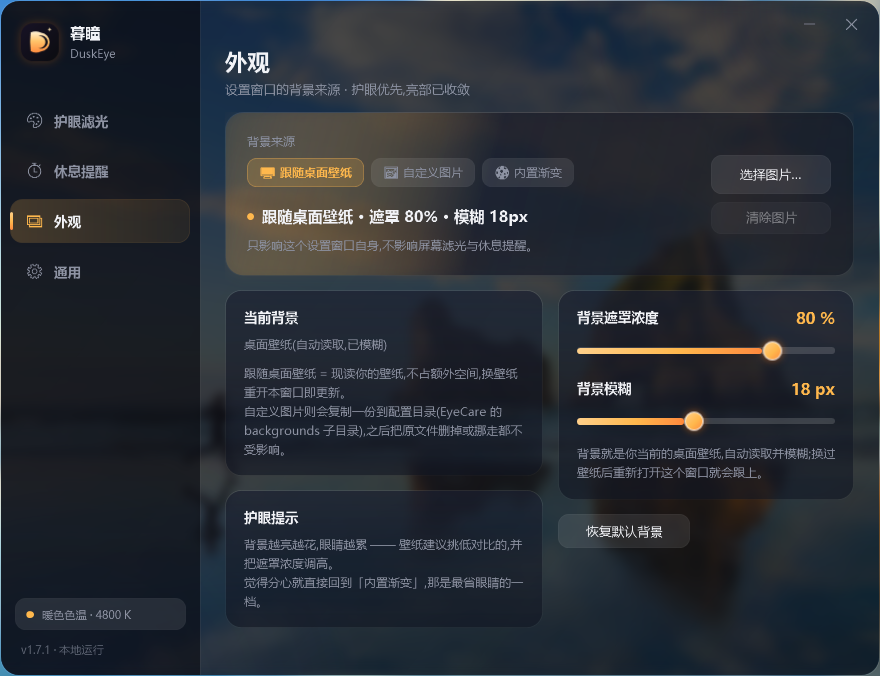
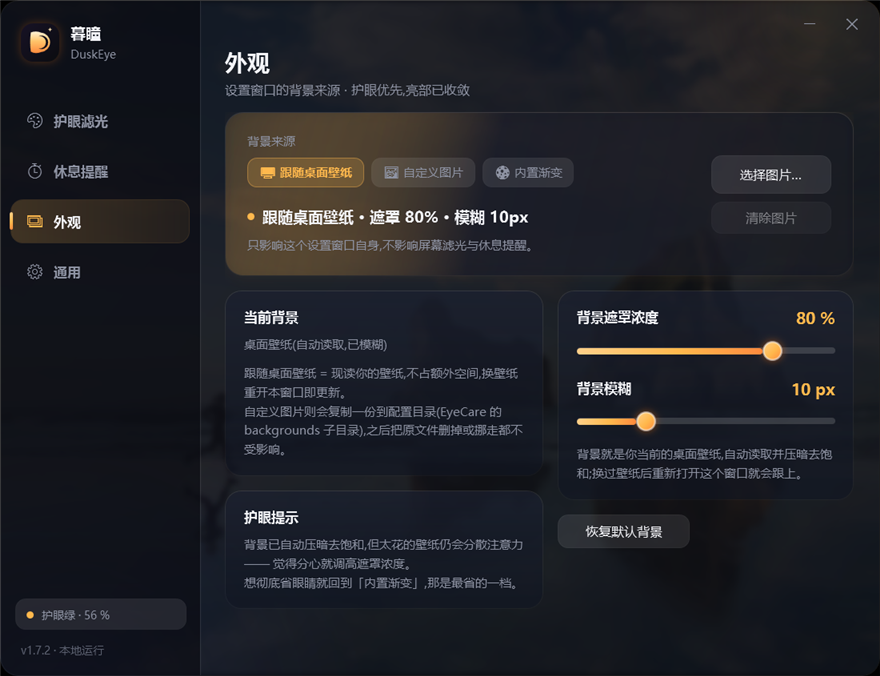
v1.7.2: 背景玻璃配方重做 —— 像素层压暗 + 去饱和,根治背景「又糊又耀眼」
老配方「高斯模糊 + 黑遮罩」的两个死结:
- 模糊把亮部搅开,亮壁纸变成整片乳白光雾,越模糊越亮(糊);
- 遮罩是 lerp(c, 深色, α),只压亮度不压饱和度,彩色照样刺眼(耀眼)。

BackgroundStore.Render 在模糊之后逐像素补两步:
- 向亮度收 ~38% 饱和度,壁纸退成灰调;
- 亮度压缩 out = 10 + in×0.40(纯白封顶 ~112),亮度上限不再依赖用户调遮罩;
  遮罩滑杆拉到 10% 也不会回到亮糊状态。
- 处理前先转非预乘 Bgra32,避免模糊边缘被二次压暗出暗边。

默认模糊 18→10(配 ConfigRevision=2 迁移,老配置统一拉回新配方默认值);
同步外观页文案、恢复默认值、README「暗玻璃配方」说明;重拍四页界面截图。

diff --git a/src/EyeCare/UI/SettingsWindow.xaml b/src/EyeCare/UI/SettingsWindow.xaml
@@ -100,8 +100,8 @@
                             </StackPanel>
                         </Border>
 
-                        <TextBlock Grid.Row="4" Text="v1.7.1 · 本地运行" FontSize="11" Foreground="#FF5C6170"
-                                   Margin="20,0,0,18"/>
+                    <TextBlock Grid.Row="4" Text="v1.7.2 · 本地运行" FontSize="11" Foreground="#FF5C6170"
+                               Margin="20,0,0,18"/>
                     </Grid>
                 </Border>
 
@@ -483,7 +483,7 @@
                                             <StackPanel>
                                                 <TextBlock Text="关于" Style="{StaticResource CardTitle}"/>
                                                 <TextBlock Style="{StaticResource Hint}" Margin="0,10,0,0"
-                                                           Text="暮瞳 DuskEye v1.7.1 · 自用免费 · 完全本地运行,无任何联网、无任何账户。&#x0a;配置与日志保存在 %APPDATA%\EyeCare。代码完全属于你,可自由修改与分发。"/>
+                                                           Text="暮瞳 DuskEye v1.7.2 · 自用免费 · 完全本地运行,无任何联网、无任何账户。&#x0a;配置与日志保存在 %APPDATA%\EyeCare。代码完全属于你,可自由修改与分发。"/>
                                             </StackPanel>
                                         </Border>
                                     </StackPanel>
@@ -554,7 +554,7 @@
                                             <StackPanel>
                                                 <TextBlock Text="护眼提示" Style="{StaticResource CardTitle}"/>
                                                 <TextBlock Style="{StaticResource Hint}" Margin="0,10,0,0"
-                                                           Text="背景越亮越花,眼睛越累 —— 壁纸建议挑低对比的,并把遮罩浓度调高。&#x0a;觉得分心就直接回到「内置渐变」,那是最省眼睛的一档。"/>
+                                                           Text="背景已自动压暗去饱和,但太花的壁纸仍会分散注意力 —— 觉得分心就调高遮罩浓度。&#x0a;想彻底省眼睛就回到「内置渐变」,那是最省的一档。"/>
                                             </StackPanel>
                                         </Border>
                                     </StackPanel>
@@ -573,7 +573,7 @@
 
                                                 <Grid Margin="0,16,0,0">
                                                     <TextBlock Text="背景模糊" Style="{StaticResource CardTitle}"/>
-                                                    <TextBlock x:Name="TxtBlurValue" Text="18 px" HorizontalAlignment="Right"
+                                                    <TextBlock x:Name="TxtBlurValue" Text="10 px" HorizontalAlignment="Right"
                                                                Style="{StaticResource ValueText}"/>
                                                 </Grid>
                                                 <Slider x:Name="SldBlur" Style="{StaticResource ModernSlider}" Margin="0,10,0,0"
@@ -581,7 +581,7 @@
                                                         ValueChanged="Bg_ValueChanged"/>
 
                                                 <TextBlock x:Name="TxtBgHint" Style="{StaticResource Hint}" Margin="0,12,0,0"
-                                                           Text="遮罩越浓,背景越暗越护眼;模糊负责把照片细节抹平,免得抢注意力。"/>
+                                                           Text="背景在像素层已自动压暗、去饱和,再亮的壁纸也只是灰调;遮罩越浓越沉,模糊负责抹平细节。"/>
                                             </StackPanel>
                                         </Border>
 

diff --git a/src/EyeCare/UI/Theme.xaml b/src/EyeCare/UI/Theme.xaml
@@ -56,6 +56,8 @@
          原则:**背景可换,亮部收敛**。
          ① 背景层 = 由 AppSettings.BackgroundMode 决定(内置哑光渐变 / 自定义图片 / 跟随桌面),
             换的只是 SettingsWindow 里 BgLayer 的 Background 画刷;
+            注意画刷本身已在 BackgroundStore 做过「暗玻璃」处理(模糊 + 压暗 + 去饱和),
+            遮罩滑杆再低背景也只是灰调暗图 —— 遮罩层不是唯一的亮度闸门;
          ② 遮罩层 = 下面 ScrimGlass,整层 Opacity 由「背景遮罩浓度」滑杆控制,
             把照片或桌面压暗到不刺眼;
          ③ 面板层 = GlassCardFill / GlassCardEdge 等,哑光深色卡片,只留一丝顶边高光。

diff --git a/src/EyeCare/Core/BackgroundStore.cs b/src/EyeCare/Core/BackgroundStore.cs
@@ -13,9 +13,16 @@ namespace EyeCare.Core;
 /// 设置窗口的背景图。三种背景来源里有两种是「一张图」:
 ///   · image   = 用户选的图片,复制到 %APPDATA%\EyeCare\backgrounds 下持久化;
 ///   · desktop = 当前桌面壁纸,每次应用时现读现用(用户换壁纸后重新打开设置即可跟随)。
-/// 两者的模糊都在<b>像素层</b>做(降采样 → DrawingVisual + BlurEffect → RenderTargetBitmap → ImageBrush),
-/// 不把 BlurEffect 挂在元素上 —— 元素级模糊会把窗口四角的圆角一起糊掉,
-/// 而这里产出的画刷交给 Border.Background,圆角由 Border 自己裁,边缘永远是干净的。
+/// 两者都在<b>像素层</b>做完整处理(降采样 → DrawingVisual + BlurEffect → RenderTargetBitmap
+/// → 压暗去饱和 → ImageBrush),不把 BlurEffect 挂在元素上 —— 元素级模糊会把窗口四角的
+/// 圆角一起糊掉,而这里产出的画刷交给 Border.Background,圆角由 Border 自己裁,边缘永远是干净的。
+/// <para>
+/// 「模糊 + 黑遮罩」的老配方有两个治不好的毛病,是背景"又糊又耀眼"的根源:
+/// ① 高斯模糊把亮部搅开,一张亮壁纸会变成整片乳白光雾 —— 越模糊越亮;
+/// ② 深色遮罩是 lerp(c, 深色, α),只压亮度、<b>饱和度原样保留</b>,彩色壁纸照样花花绿绿地透上来。
+/// 所以在像素层加一道「暗玻璃」处理(见 <see cref="Render"/>):先把饱和度收掉,再把亮度整体
+/// 压进一个很低的区间 —— 之后无论遮罩滑杆拉到多低,背景最多也只是"灰调暗图",不可能再刺眼。
+/// </para>
 /// </summary>
 public static class BackgroundStore
 {
@@ -24,6 +31,14 @@ public static class BackgroundStore
 
     /// <summary>模糊前先把图片降到这个宽度再处理:省内存、省 CPU,压暗后肉眼看不出差别</summary>
     private const int WorkWidth = 1280;
+
+    // ── 暗玻璃配方 ──
+    /// <summary>去饱和比例(0-255):颜色通道向亮度收 96/256 ≈ 38%,壁纸退成灰调、不再抢注意力</summary>
+    private const int DesatMix = 96;
+    /// <summary>亮度压缩 out = Floor + in × Gain:纯白(255)封顶约 112,深夜也不刺眼;
+    /// 低值抬底色,模糊的暗角不至于死黑。遮罩滑杆在这之上再压,所以「浓度」低到 10% 也安全</summary>
+    private const double ToneFloor = 10;
+    private const double ToneGain = 0.40;
 
     /// <summary>超过这个大小的文件不当背景图处理,免得一个手滑把内存吃光</summary>
     private const long MaxBytes = 64L * 1024 * 1024;
@@ -144,7 +159,7 @@ public static class BackgroundStore
     // ── 画刷 ──
 
     /// <summary>
-    /// 生成背景画刷:等比裁切填满(UniformToFill)+ 居中,blur &gt; 0 时先做像素级高斯模糊。
+    /// 生成背景画刷:等比裁切填满(UniformToFill)+ 居中,先像素级模糊、再做「暗玻璃」压暗去饱和。
     /// 读不出来时返回 null,由调用方降级到内置渐变。
     /// <para>
     /// 一律按<b>字节流</b>解码,而不是把路径交给 BitmapImage:桌面壁纸(TranscodedWallpaper)
@@ -168,7 +183,8 @@ public static class BackgroundStore
             var src = Decode(data, downscale ? WorkWidth : 0);
             if (src is null) return null;
 
-            ImageSource final = blur <= 0 ? src : Blur(src, w, h, blur);
+            ImageSource? final = Render(src, w, h, blur);
+            if (final is null) return null;
 
             var brush = new ImageBrush(final)
             {
@@ -244,16 +260,62 @@ public static class BackgroundStore
         catch { return null; }
     }
 
-    private static ImageSource Blur(BitmapSource src, int w, int h, int radius)
+    /// <summary>
+    /// 背景图的完整像素处理:blur &gt; 0 先高斯模糊(消除细节),然后<b>一律</b>做「暗玻璃」——
+    /// 去饱和 + 亮度压缩。blur = 0 也要做:耀眼是亮度问题,跟模不模糊无关。
+    /// <para>
+    /// 为什么压缩必须做在<b>位图像素</b>里、而不是靠窗口上的遮罩层:遮罩是 lerp(c, 深色, α),
+    /// 无论怎么调 α 都治不了两件事 —— 亮部封不了顶(α 低时白壁纸照透),饱和度原样保留
+    /// (彩色照样刺眼)。像素层的 out = Floor + in×Gain 才是真正的亮度上限。
+    /// </para>
+    /// <para>
+    /// 模糊会把四边拉进半透明(Pbgra 预乘),先转成非预乘的 Bgra32 再逐像素处理,
+    /// 否则边缘会被二次压暗出一圈暗边。逐像素只有乘加 + 256 项查表,1280 宽的图约 10ms。
+    /// </para>
+    /// </summary>
+    private static ImageSource? Render(BitmapSource src, int w, int h, int blur)
     {
-        var dv = new DrawingVisual { Effect = new BlurEffect { Radius = radius, KernelType = KernelType.Gaussian } };
-        using (var dc = dv.RenderOpen())
-            dc.DrawImage(src, new Rect(0, 0, w, h));
+        try
+        {
+            var dv = new DrawingVisual();
+            if (blur > 0)
+                dv.Effect = new BlurEffect { Radius = blur, KernelType = KernelType.Gaussian };
+            using (var dc = dv.RenderOpen())
+                dc.DrawImage(src, new Rect(0, 0, w, h));
 
-        var rtb = new RenderTargetBitmap(w, h, 96, 96, PixelFormats.Pbgra32);
-        rtb.Render(dv);
-        rtb.Freeze();
-        return rtb;
+            var rtb = new RenderTargetBitmap(w, h, 96, 96, PixelFormats.Pbgra32);
+            rtb.Render(dv);
+
+            var bgra = new FormatConvertedBitmap(rtb, PixelFormats.Bgra32, null, 0);
+            int stride = w * 4;
+            var pixels = new byte[stride * h];
+            bgra.CopyPixels(pixels, stride, 0);
+
+            // 亮度压缩查表:循环里只剩一次查表,不再做浮点
+            var lut = new byte[256];
+            for (int i = 0; i < 256; i++)
+                lut[i] = (byte)Math.Round(ToneFloor + ToneGain * i);
+
+            for (int p = 0; p < pixels.Length; p += 4)
+            {
+                int b = pixels[p], g = pixels[p + 1], r = pixels[p + 2];
+                // ITU-R 601 亮度,定点化:(0.299, 0.587, 0.114) × 65536,正好凑满 2^16
+                int lum = (r * 19595 + g * 38470 + b * 7471) >> 16;
+                pixels[p]     = lut[b + ((lum - b) * DesatMix >> 8)];
+                pixels[p + 1] = lut[g + ((lum - g) * DesatMix >> 8)];
+                pixels[p + 2] = lut[r + ((lum - r) * DesatMix >> 8)];
+                // alpha 不动
+            }
+
+            var result = BitmapSource.Create(w, h, 96, 96, PixelFormats.Bgra32, null, pixels, stride);
+            result.Freeze();
+            return result;
+        }
+        catch (Exception ex)
+        {
+            Logger.Error("背景暗玻璃处理失败: " + ex.Message);
+            return null;
+        }
     }
 
     private static void TryDelete(string path)

diff --git a/src/EyeCare/UI/SettingsWindow.xaml.cs b/src/EyeCare/UI/SettingsWindow.xaml.cs
@@ -39,8 +39,8 @@ public partial class SettingsWindow : Window
     private const string AutoStartOnHint = "已注册:当前用户登录后自动启动(带 --silent 参数,不弹窗打扰)。";
     private const string AutoStartOffHint = "未启用。启用后写入注册表 Run 项,登录时静默启动。";
 
-    private const string BgDimHint = "遮罩越浓,背景越暗越护眼;模糊负责把照片细节抹平,免得抢注意力。";
-    private const string BgDesktopHint = "背景就是你当前的桌面壁纸,自动读取并模糊;换过壁纸后重新打开这个窗口就会跟上。";
+    private const string BgDimHint = "背景在像素层已自动压暗、去饱和,再亮的图也只是灰调;遮罩越浓越沉,模糊负责抹平细节。";
+    private const string BgDesktopHint = "背景就是你当前的桌面壁纸,自动读取并压暗去饱和;换过壁纸后重新打开这个窗口就会跟上。";
     private const string BgMatteHint = "内置渐变本身就很暗,不需要遮罩和模糊。";
 
     /// <summary>窗口被收进托盘(此时应用仍在后台运行)</summary>
@@ -499,9 +499,9 @@ public partial class SettingsWindow : Window
     /// 把「外观」页的选择落到窗口背景上。
     /// <para>
     /// desktop 与 image 只差「图从哪来」—— 一个是当前桌面壁纸(每次现读),一个是用户选的图片 ——
-    /// 之后完全同路:像素层模糊 → 交给 <c>BgLayer.Background</c>。
+    /// 之后完全同路:像素层模糊 + 暗玻璃压暗去饱和(BackgroundStore.Render)→ 交给 <c>BgLayer.Background</c>。
     /// 早期版本这里走的是「窗口透明 + 系统亚克力」,实测无效:分层窗口拿不到 DWM 模糊,
-    /// 透出来的是<b>清晰明亮</b>的真实桌面,反而最晃眼。所以改成自己读壁纸自己模糊,结果完全可控。
+    /// 透出来的是<b>清晰明亮</b>的真实桌面,反而最晃眼。所以改成自己读壁纸自己处理,结果完全可控。
     /// </para>
     /// 任何一步失败都退回内置渐变:背景读不出来时半透明面板糊在空白上是最糟的状态。
     /// </summary>
@@ -682,12 +682,12 @@ public partial class SettingsWindow : Window
     {
         _settings.BackgroundMode = "desktop";
         _settings.BackgroundDim = 80;
-        _settings.BackgroundBlur = 18;
+        _settings.BackgroundBlur = 10;
 
         _loading = true;
         BgDesktopMode.IsChecked = true;
         SldDim.Value = 80;
-        SldBlur.Value = 18;
+        SldBlur.Value = 10;
         _loading = false;
 
         _bgBrush = null;

diff --git a/src/EyeCare/Core/AppSettings.cs b/src/EyeCare/Core/AppSettings.cs
@@ -33,7 +33,7 @@ public sealed class AppSettings
     // ── 外观 / 背景 ──
     /// <summary>
     /// 设置窗口的背景来源。
-    /// desktop = 跟随桌面壁纸(默认):自动读取当前壁纸、在像素层模糊后当背景。
+    /// desktop = 跟随桌面壁纸(默认):自动读取当前壁纸,像素层模糊 + 压暗去饱和后当背景。
     ///           注意<b>不是</b>让窗口半透明去透出桌面 —— 分层窗口拿不到 DWM 模糊,透出来的是清晰桌面;
     /// image   = 自定义图片:用户选的照片,复制到 %APPDATA%\EyeCare 下持久化;
     /// matte   = 内置哑光渐变:不跟桌面,最不刺眼。
@@ -41,10 +41,12 @@ public sealed class AppSettings
     public string BackgroundMode { get; set; } = "desktop";
     /// <summary>自定义背景图片的落盘路径(BackgroundStore 管理,源文件删除也不受影响)</summary>
     public string BackgroundImagePath { get; set; } = "";
-    /// <summary>背景遮罩浓度 %(10-100):越高背景被压得越暗、越护眼;仅 image / desktop 有意义</summary>
+    /// <summary>背景遮罩浓度 %(10-100):越高背景越沉;仅 image / desktop 有意义。
+    /// 注意它压不住亮度上限 —— 封顶靠 BackgroundStore 的像素层压缩(见「暗玻璃」注释)</summary>
     public int BackgroundDim { get; set; } = 80;
-    /// <summary>背景模糊半径(0-40):把照片细节抹掉,避免背景抢注意力</summary>
-    public int BackgroundBlur { get; set; } = 18;
+    /// <summary>背景模糊半径(0-40):把照片细节抹掉。10 在"看得清轮廓"与"不抢注意力"之间;
+    /// 再大就重新糊成乳白光雾(旧版默认 18 的教训)</summary>
+    public int BackgroundBlur { get; set; } = 10;
 
     /// <summary>
     /// 配置迁移版本号。老配置里没有这个字段 → 反序列化得 0 → 触发一次迁移(见 SettingsStore.Migrate)。

diff --git a/src/EyeCare/Core/SettingsStore.cs b/src/EyeCare/Core/SettingsStore.cs
@@ -12,7 +12,7 @@ public static class SettingsStore
     private static readonly object Lock = new();
 
     /// <summary>当前配置结构版本,见 AppSettings.ConfigRevision / Migrate</summary>
-    private const int CurrentRevision = 1;
+    private const int CurrentRevision = 2;
 
     public static AppSettings Load()
     {
@@ -43,6 +43,11 @@ public static class SettingsStore
     /// 用户升级后观感跟以前一模一样,会以为改动根本没生效。
     /// 只迁「还是旧默认值」的情况:自己选过图片(image)的不动,那是用户的明确选择。
     /// </para>
+    /// <para>
+    /// revision 2(v1.7.2):背景配方重做 —— 像素层压暗 + 去饱和(见 BackgroundStore),
+    /// 默认模糊 18 → 10。老配置里存的是按旧配方调的数值(模糊越大越糊、亮壁纸还耀眼),
+    /// 直接沿用还是那副观感;统一拉回新配方默认值,不合口味仍可用滑杆自己调。
+    /// </para>
     /// </summary>
     private static AppSettings Migrate(AppSettings s)
     {
@@ -51,8 +56,14 @@ public static class SettingsStore
         if (s.ConfigRevision < 1 && s.BackgroundMode == "matte")
             s.BackgroundMode = "desktop";
 
+        if (s.ConfigRevision < 2)
+        {
+            s.BackgroundDim = 80;
+            s.BackgroundBlur = 10;
+        }
+
         s.ConfigRevision = CurrentRevision;
-        Logger.Info($"配置已迁移到 revision {CurrentRevision}(背景来源 = {s.BackgroundMode})");
+        Logger.Info($"配置已迁移到 revision {CurrentRevision}(背景来源 = {s.BackgroundMode},模糊 = {s.BackgroundBlur}px)");
         Save(s);
         return s;
     }

diff --git a/README.md b/README.md
@@ -41,8 +41,8 @@ C# / .NET 8 WPF 原生实现,单文件 exe,无联网、无账户、无广告,代
 **护眼软件本身不该是一个高光闪闪的界面**,所以亮部一律收敛(卡片顶边高光 11%、没有镜面反射、
 柔光只有两团极淡的极光),背景也默认柔化到不抢注意力。
 
-默认是「跟随桌面壁纸」——自动读取你当前的壁纸,在像素层模糊后当背景,所以既不单调也不刺眼。
-在「外观」页可以换成自己的图片或退回内置渐变,并各自调浓度:
+默认是「跟随桌面壁纸」——自动读取你当前的壁纸,在像素层做「暗玻璃」处理(模糊 + 压暗 + 去饱和)
+后当背景,既不单调也不刺眼。在「外观」页可以换成自己的图片或退回内置渐变,并各自调浓度:
 
 ```
 ① 背景层   跟随桌面壁纸(默认,现读壁纸) / 自定义图片 / 内置哑光渐变
@@ -58,9 +58,15 @@ C# / .NET 8 WPF 原生实现,单文件 exe,无联网、无账户、无广告,代
 - 读不到壁纸(纯色桌面)或图片读不出来时,**自动降级**回内置渐变,降级原因写在页面上。
 - 自定义图片会**复制**到 `%APPDATA%\EyeCare\backgrounds\background.<ext>`,
   之后删除或移动原文件都不受影响。跟随桌面则每次现读,不占额外空间。
-- 两种「一张图」的背景,**模糊都在像素层做完再交给 `ImageBrush`**(降采样 → BlurEffect →
-  RenderTargetBitmap),所以窗口四角的圆角永远是干净的;壁纸没有扩展名时按字节流解码,
+- 两种「一张图」的背景,**模糊与压暗都在像素层做完再交给 `ImageBrush`**(降采样 → BlurEffect →
+  RenderTargetBitmap → 逐像素处理),所以窗口四角的圆角永远是干净的;壁纸没有扩展名时按字节流解码,
   WIC 只认文件头,不看文件名。
+- **背景的「暗玻璃」配方**(背景"又糊又耀眼"的根治,踩过坑写在这里):
+  ① 只靠黑遮罩压亮度治不了「糊」—— 高斯模糊会把亮部搅开,亮壁纸变成整片乳白光雾,越模糊越亮;
+  ② 也治不了「艳」—— 遮罩是 `lerp(c, 深色, α)`,饱和度原样保留,彩色壁纸照样花花绿绿透上来。
+  所以在 `BackgroundStore.Render` 里于模糊之后逐像素再做两步:**向亮度收 ~38% 饱和度** +
+  **亮度压缩 `out = 10 + in×0.40`**(纯白封顶约 112)。之后无论遮罩滑杆拉到多低,
+  背景最多也只是"灰调暗图",亮度上限不再依赖用户记得调遮罩。默认模糊也随之从 18px 降到 10px。
 - 布局:左侧烟熏导航栏(含当前状态胶囊)+ 右侧「Hero 总览卡 + 两栏栅格」,
   每页首屏即可看到当前状态与主操作,四页都不需要滚动。
 - **文字清晰度有两条硬规矩**(踩过坑,写在这里免得复发):
@@ -71,8 +77,10 @@ C# / .NET 8 WPF 原生实现,单文件 exe,无联网、无账户、无广告,代
      默认的 `Ideal` 用浮点字距排字,12px 上下的小字会发虚;`Display` 把字形推进对齐到整像素。
      注:窗口是分层窗口(`AllowsTransparency=True`,为了圆角),Windows 在这种情况下不提供 ClearType
      次像素抗锯齿 —— 这是拿"圆角无锯齿"换来的,属于已知取舍。
-- 配置迁移:老版本升级上来时,背景来源若仍是旧的默认值「内置渐变」会被自动切到
-  「跟随桌面壁纸」(只迁旧默认值,自己选过图片的不动)。见 `SettingsStore.Migrate`。
+- 配置迁移:revision 1 —— 老版本升级上来时,背景来源若仍是旧的默认值「内置渐变」会被自动切到
+  「跟随桌面壁纸」(只迁旧默认值,自己选过图片的不动);revision 2 —— 背景配方重做时,
+  遮罩/模糊两个滑杆统一拉回新配方的默认值(80% / 10px),避免沿用旧配方的数值看不出差别。
+  见 `SettingsStore.Migrate`。
 
 ## 使用
 
@@ -122,7 +130,7 @@ src/EyeCare/
 │   ├── TrayService        托盘图标(状态变色)、菜单、气泡
 │   ├── HotkeyManager      全局热键注册
 │   ├── AutoStartManager   开机自启(注册表)
-│   ├── BackgroundStore    背景图:桌面壁纸定位、导入到数据目录、像素级高斯模糊、生成 ImageBrush
+│   ├── BackgroundStore    背景图:桌面壁纸定位、导入到数据目录、像素级模糊 + 暗玻璃(压暗去饱和)、生成 ImageBrush
 │   └── SettingsStore/Logger  配置持久化(含配置迁移)与日志
 └── UI/
     ├── SettingsWindow(.xaml)  设置界面(滤光/休息/外观/通用 四页,分层背景布局)
